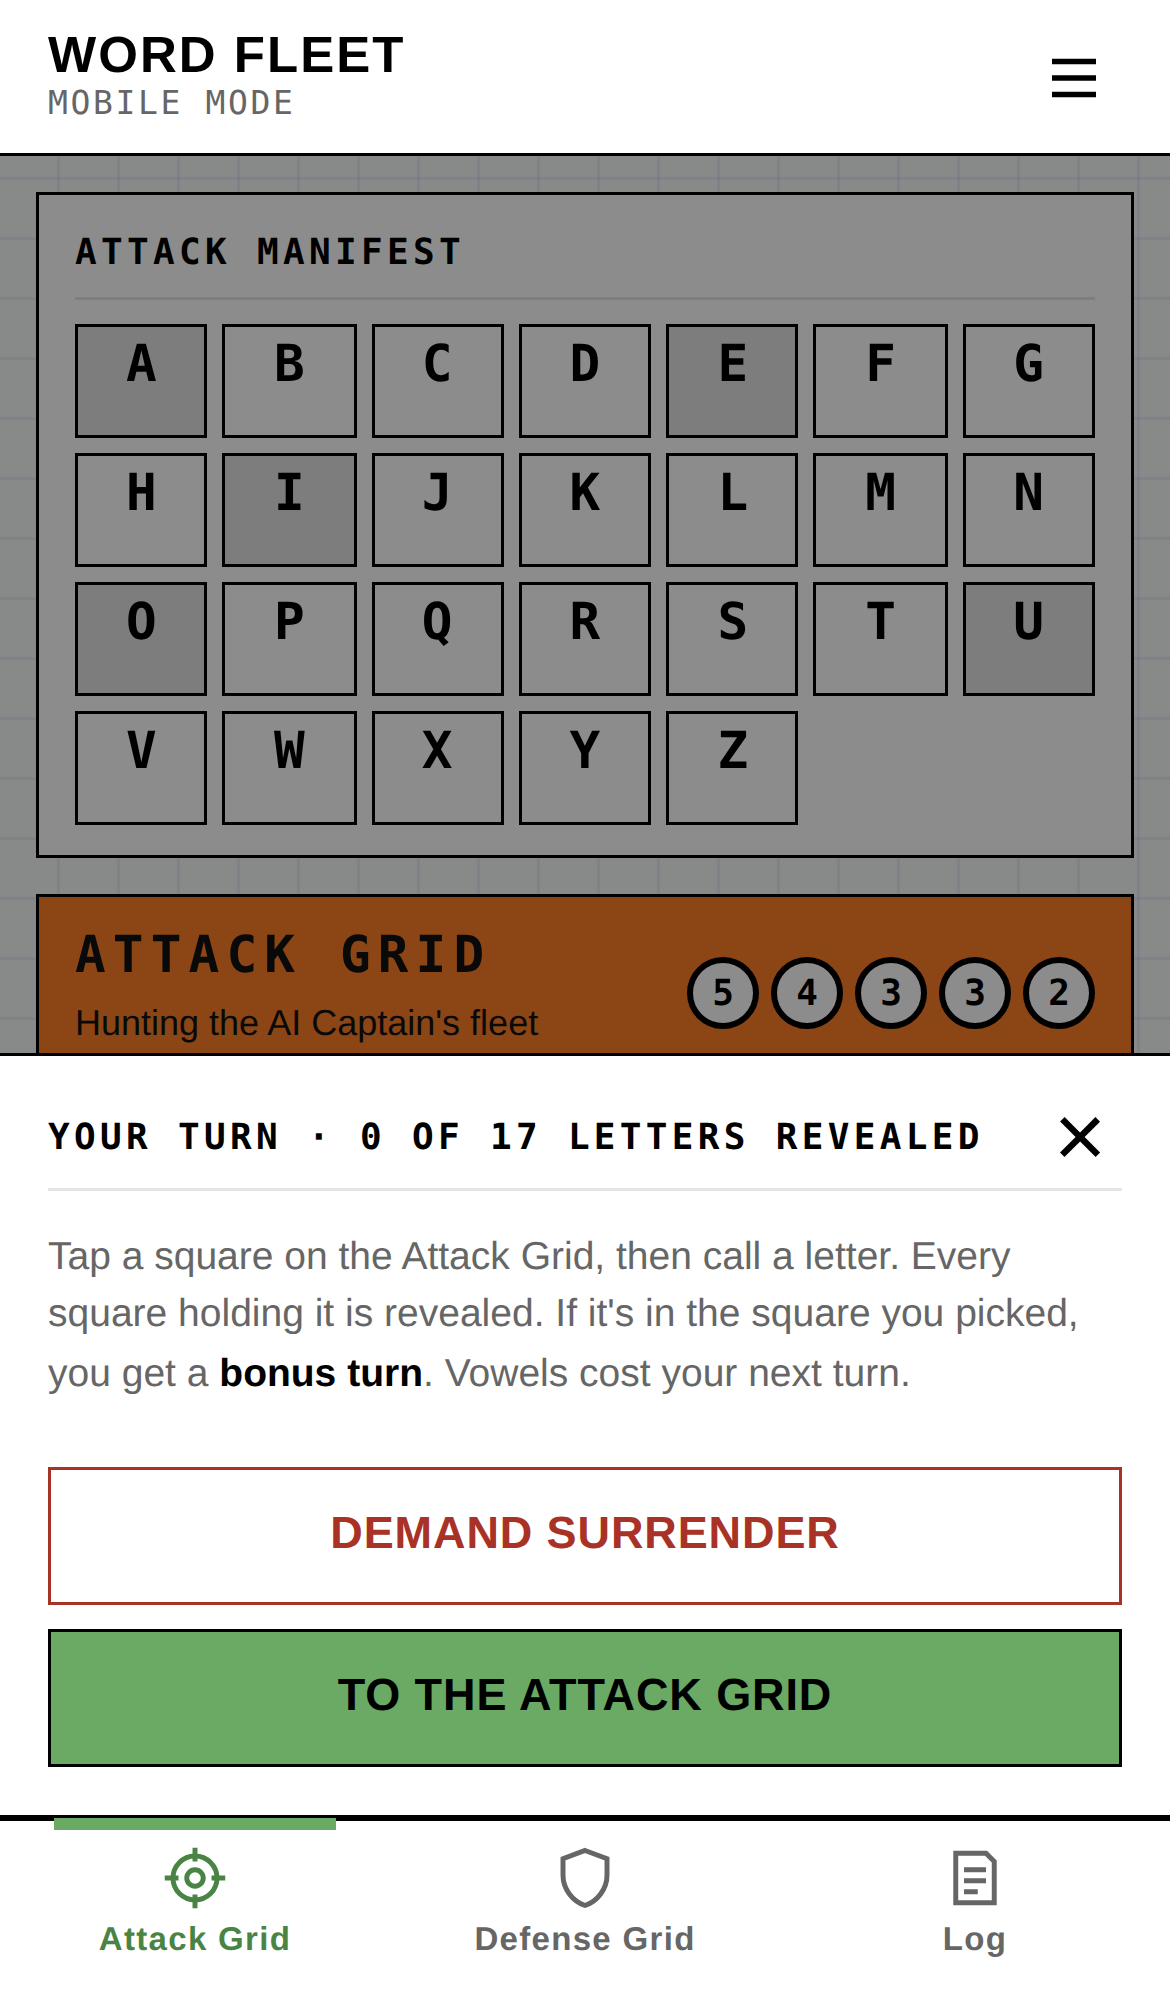
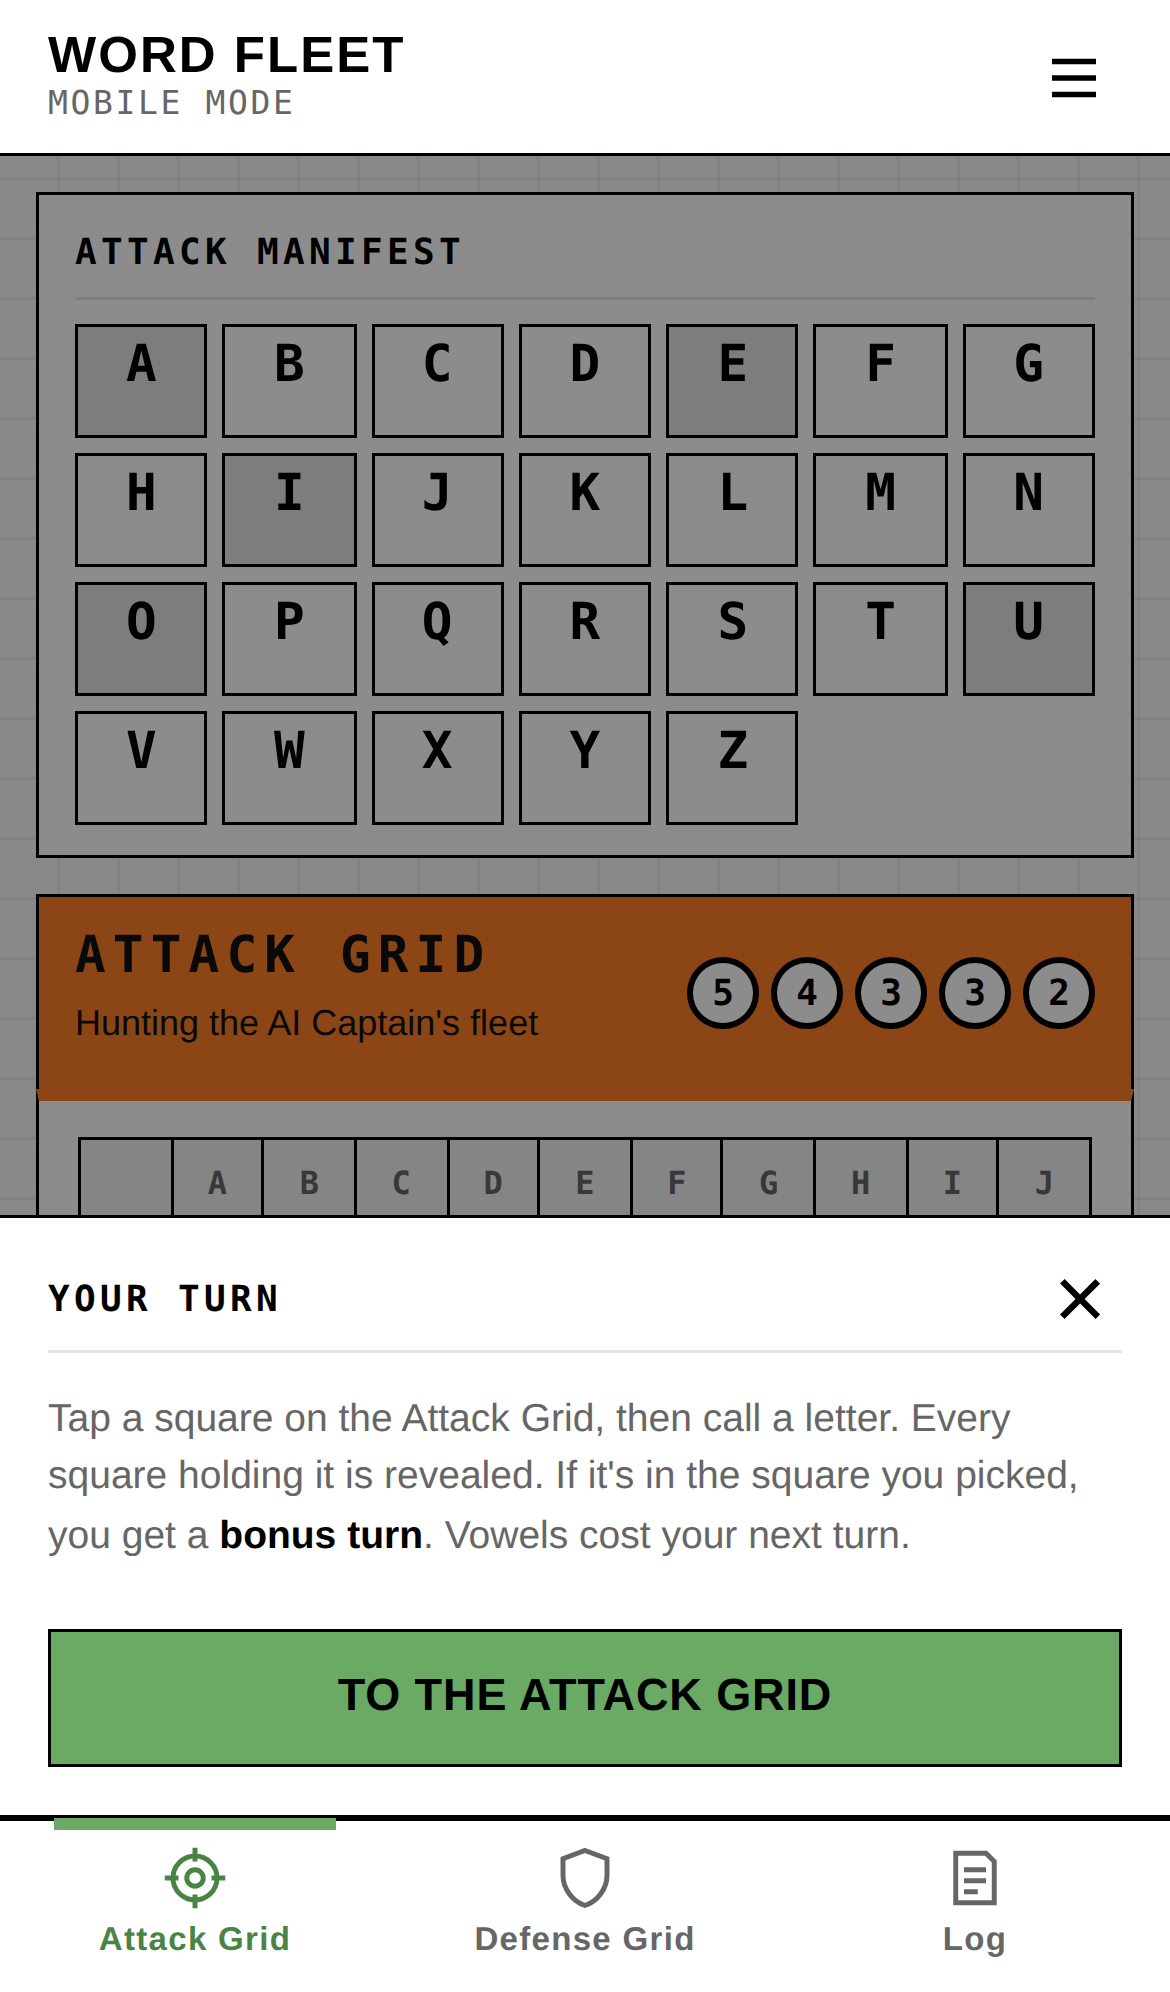
Attack popups: no Demand Surrender button (it's in the menu); Your Turn no longer counts letters in play
Claude-Session: https://claude.ai/code/session_013sUGAAEC45a1EJCrQWVj9Q

Changed region(s): [[0.0, 0.5291, 1.0, 0.8092]]

diff --git a/mobile/app.js b/mobile/app.js
@@ -744,8 +744,7 @@
     }).join('');
 
     var fp = $('firePanel');
-    var found = bullCount(S.myShots);
-    var demandBtn = '<button class="btn btn--danger btn--wide" type="button" data-act="demand">Demand Surrender</button>';
+    // Demand Surrender lives in the \u2630 menu, not in these popups.
     var pkey, dismissible;
     if (ui.demand && mine) {
       pkey = 'demand'; dismissible = true;
@@ -755,7 +754,7 @@
       dismissible = true;   // close it to look at the grid; the reopen button brings it back
       fp.innerHTML = '<div class="card-title">' + S.result.title + '</div>' + S.result.html +
         (S.result.solve ? solveBox() : '') +
-        (S.result.bonus ? '<button class="btn btn--bonus btn--wide" type="button" data-act="panelOk">\u2605 Take Your Bonus Turn</button>' + demandBtn
+        (S.result.bonus ? '<button class="btn btn--bonus btn--wide" type="button" data-act="panelOk">\u2605 Take Your Bonus Turn</button>'
                         : mine ? '<button class="btn btn--primary btn--wide" type="button" data-act="endTurn">End Turn</button>'
                                : '<p class="waiting">AI Captain is choosing a square\u2026</p>');
     } else if (!mine) {
@@ -763,10 +762,9 @@
       fp.innerHTML = '<p class="waiting">AI Captain is choosing a square\u2026</p>';
     } else {
       pkey = 'turn:' + S.log.length; dismissible = true;   // a new key every move, so each turn pops up once
-      fp.innerHTML = '<div class="card-title">Your Turn &middot; ' + found + ' of ' + FLEET_CELLS + ' letters revealed</div>' +
+      fp.innerHTML = '<div class="card-title">Your Turn</div>' +   // no count of letters in play
         (S.notice ? '<p class="notice">' + S.notice + '</p>' : '') +
         '<p class="hint" style="margin-top:0">Tap a square on the Attack Grid, then call a letter. Every square holding it is revealed. If it\'s in the square you picked, you get a <strong>bonus turn</strong>. Vowels cost your next turn.</p>' +
-        demandBtn +
         '<button class="btn btn--primary btn--wide" type="button" data-act="panelOk">To the Attack Grid</button>';
     }
     ui.panelKey = pkey; ui.panelDismissible = dismissible;
@@ -1261,7 +1259,7 @@
       (ui.installEvt ? '<button class="btn btn--wide" type="button" data-act="install">Install Word Fleet</button>' : '') +
       '<a class="btn btn--wide" href="https://thegamebureau.com/wordfleet/">Home Port</a>' +
       '<a class="btn btn--wide" href="https://thegamebureau.com/">By The Game Bureau</a>' +
-      (S && S.phase === 'battle' && S.turn === 'me' && !S.result ? '<button class="btn btn--danger btn--wide" type="button" data-act="menuDemand">Demand Surrender</button>' : '') +
+      (S && S.phase === 'battle' && S.turn === 'me' && (!S.result || S.result.bonus) ? '<button class="btn btn--danger btn--wide" type="button" data-act="menuDemand">Demand Surrender</button>' : '') +
       (live ? '<button class="btn btn--danger btn--wide" type="button" data-act="abandon">Abandon Battle</button>' : '') +
       (window.WFAudio ? '<div class="switches">' +
         '<label class="switch-row"><span>Sound Effects</span><input type="checkbox" class="switch" data-audio="sfx"' + (window.WFAudio.sfxOn() ? ' checked' : '') + '></label>' +

diff --git a/mobile/index.html b/mobile/index.html
@@ -18,7 +18,7 @@
   <link rel="preconnect" href="https://fonts.gstatic.com" crossorigin>
   <link href="https://fonts.googleapis.com/css2?family=Courier+Prime:wght@400;700&family=Inter:wght@400;500;600;700&display=swap" rel="stylesheet">
   <!-- Bump ?v= on every release (and CACHE in sw.js) so a new page never runs old code. -->
-  <link rel="stylesheet" href="app.css?v=95">
+  <link rel="stylesheet" href="app.css?v=97">
 </head>
 <body>
 
@@ -243,7 +243,7 @@
 <div class="toast" id="toast" hidden></div>
 <div class="bonus-banner" id="bonusBanner" role="status" aria-live="assertive" hidden></div>
 
-<script src="audio.js?v=95"></script>
-<script src="app.js?v=95"></script>
+<script src="audio.js?v=97"></script>
+<script src="app.js?v=97"></script>
 </body>
 </html>

diff --git a/mobile/sw.js b/mobile/sw.js
@@ -1,11 +1,11 @@
 /* Word Fleet service worker: the whole game works offline once loaded. */
-var CACHE = 'wordfleet-v95';
+var CACHE = 'wordfleet-v97';
 var SHELL = [
   './',
   'index.html',
-  'app.css?v=95',
-  'app.js?v=95',
-  'audio.js?v=95',
+  'app.css?v=97',
+  'app.js?v=97',
+  'audio.js?v=97',
   'manifest.webmanifest',
   'icons/icon-180.png',
   'icons/icon-192.png',

diff --git a/mobile/screens/README.md b/mobile/screens/README.md
@@ -12,7 +12,7 @@ referred to by name when asking for changes. Each has a reference snapshot in th
 | **002-MOBILE-OPPONENT** | `<section id="scrOpponent" data-screen="002-MOBILE-OPPONENT">`, `SCREENS.opponent` | `002-mobile-opponent.png` | Header line: your flag and fleet name. Card title "Choose Your Opponent", section "Pick the AI Captain you'll face": 🦆 Rubber Duck, ⚓ Steady, 📖 Lexicon, each with a character sketch and five example words (5, 4, 3, 3, 2 letters) from that captain's tier of the chosen dictionary, never offensive. "NEXT: WORD-SHIPS" (50%), Back. |
 | **003-MOBILE-WORD-SHIPS** | `<section id="scrWords" data-screen="003-MOBILE-WORD-SHIPS">`, `SCREENS.words` | `003-mobile-word-ships.png` | Header line: your flag and fleet name. Card title "Build Your Word-Ships". "Allow possibly offensive words" switch ("Applies to both fleets."). Section "Check your five word-ships" with ↻ REFRESH ALL; "Tap any word to type your own." Each word has a ↻ redraw; a typed word is checked against the dictionary when its box loses focus, and all are checked on "NEXT: DEPLOY" (75%). Back. |
 | **004-MOBILE-DEPLOY** | `<section id="scrDeploy" data-screen="004-MOBILE-DEPLOY">`, `SCREENS.deploy` | `004-mobile-deploy.png` | Step 4 of 4 of Prepare for Battle, same look as 001-003; header line: your flag and fleet name. Card title "Deploy Your Fleet", then the Defense Grid dressed like the in-game one ("DEFENSE GRID PREVIEW" banner with your fleet name under it, in your fleet's colors from 001: color 1 behind, color 2 for the text, color 1 along the top edge). Opens with the five word-ships already deployed at random, in green; they never leave the grid. Section "Keep this layout or rearrange it" with ⇄ SHUFFLE (new random layout); drag a ship to move it, double-tap its first letter to turn it. "LET THE BATTLE BEGIN!" (progress bar full), Back. |
-| **005-MOBILE-ATTACK** | `<div id="tabAttack" data-screen="005-MOBILE-ATTACK">` in `#scrBattle`; popup `#panelSheet` | `005-mobile-attack.png`, `005-mobile-attack-popup.png`, `005-mobile-bonus-turn.png` | Battle, Attack Grid tab: the Attack Manifest on top, then the Attack Grid under its Signal Orange banner with the five ship circles. No turn chip in the header. The turn panel is always a popup over the grid (between the top bar and the tab bar, which stay usable): your turn (with Demand Surrender and "To the Attack Grid"; closable), the result of your call (Solve a Word, End Turn; closable, then "▲ BACK TO RESULT · END TURN" above the tabs reopens it), "AI Captain is choosing a square…", and 009-MOBILE-SURRENDER. Each pops up once per move; once closed it stays shut until the next move. Demand Surrender is also in the ☰ menu during your turn. Right letter in the right square: the bonus sound (ship's bell twice, rising fanfare, sparkle), a "★ BONUS TURN!" flash over the top bar with a short buzz on phones, and the popup turns gold with "★ TAKE YOUR BONUS TURN". |
+| **005-MOBILE-ATTACK** | `<div id="tabAttack" data-screen="005-MOBILE-ATTACK">` in `#scrBattle`; popup `#panelSheet` | `005-mobile-attack.png`, `005-mobile-attack-popup.png`, `005-mobile-bonus-turn.png` | Battle, Attack Grid tab: the Attack Manifest on top, then the Attack Grid under its Signal Orange banner with the five ship circles. No turn chip in the header. The turn panel is always a popup over the grid (between the top bar and the tab bar, which stay usable): "Your Turn" (no count of letters in play; "To the Attack Grid"; closable), the result of your call (Solve a Word, End Turn; closable, then "▲ BACK TO RESULT · END TURN" above the tabs reopens it), "AI Captain is choosing a square…", and 009-MOBILE-SURRENDER. Each pops up once per move; once closed it stays shut until the next move. Demand Surrender is only in the ☰ menu (during your turn, bonus turns included). Right letter in the right square: the bonus sound (ship's bell twice, rising fanfare, sparkle), a "★ BONUS TURN!" flash over the top bar with a short buzz on phones, and the popup turns gold with "★ TAKE YOUR BONUS TURN". |
 | **006-MOBILE-CALL-LETTER** | sheet, `data-screen="006-MOBILE-CALL-LETTER"` | `006-mobile-call-letter.png` | Opens when you tap a hidden square: pick a letter to call (vowels marked −1 turn), or Cancel. |
 | **007-MOBILE-DEFENSE** | `<div id="tabDefense" data-screen="007-MOBILE-DEFENSE">` | `007-mobile-defense.png` | Battle, Defense Grid tab: banner in your fleet colors with your fleet name; incoming report, your fleet with the AI Captain's picks, the Defense Manifest. |
 | **008-MOBILE-LOG** | `<div id="tabLog" data-screen="008-MOBILE-LOG">` | `008-mobile-log.png` | Battle, Log tab: small "CAPTAIN'S LOG" then your flag and fleet name, as on the Prepare screens. Below, newest on top, a plain list with an ⚓ bullet on every entry; your moves and the AI Captain's show that side's flag and fleet name, Fleet Command notices are just the text. |
